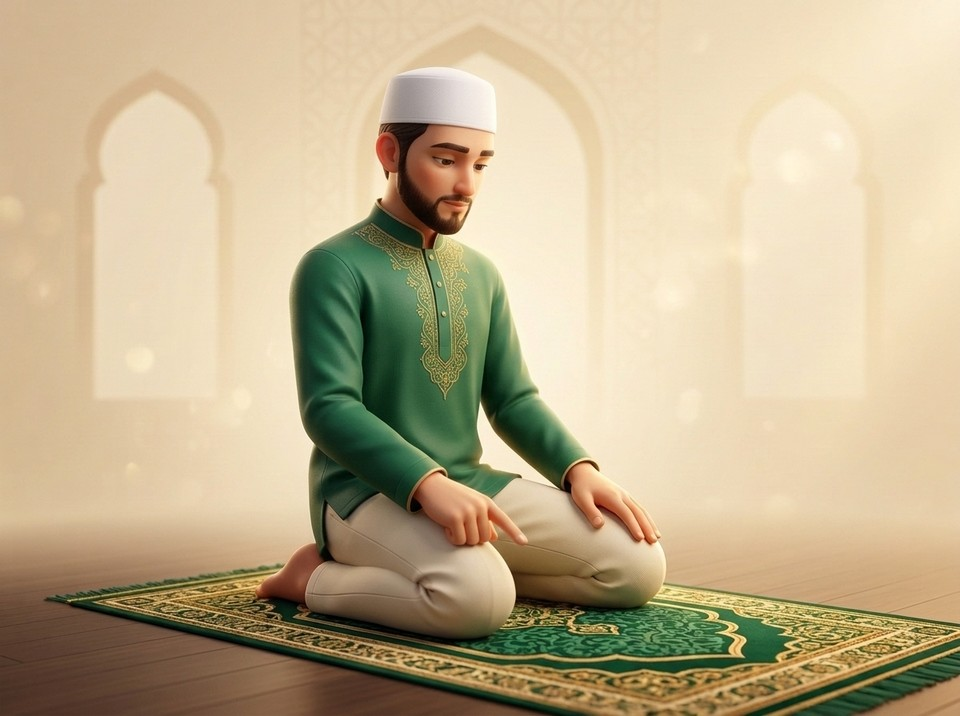
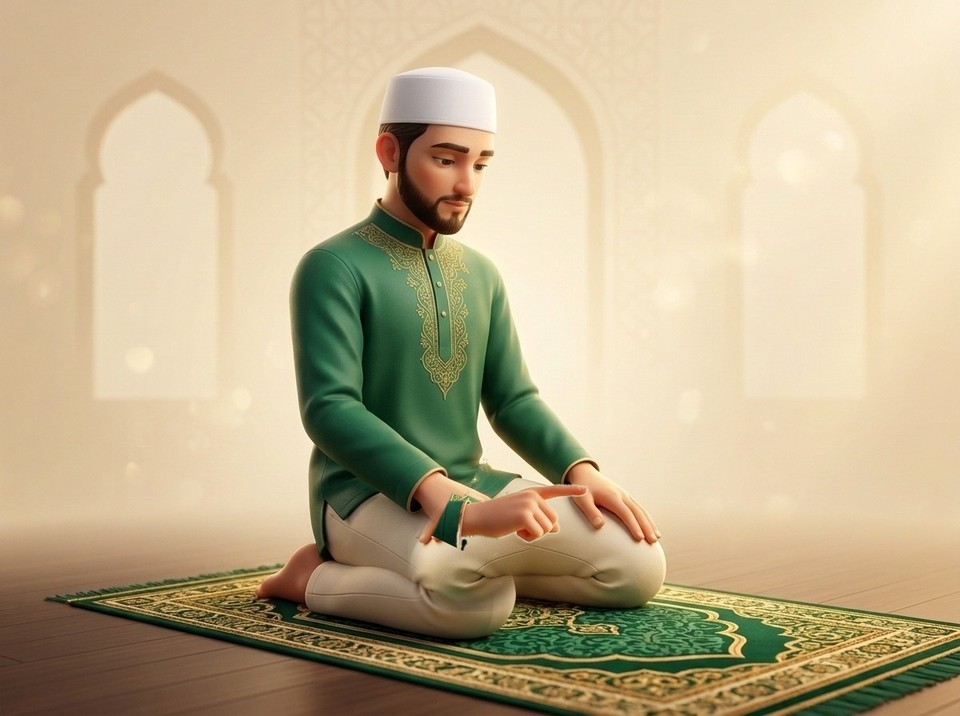
fix(prayer): perbarui posisi telunjuk tasyahud tepat di atas lutut dan tambahkan cache-busting v1.4.1

Changed region(s): [[0.4062, 0.676, 0.625, 0.8603]]

diff --git a/src/features/prayer/components/PrayerPostureIllustration.tsx b/src/features/prayer/components/PrayerPostureIllustration.tsx
@@ -148,8 +148,8 @@ export function PrayerPostureIllustration({
   const [imageLoaded, setImageLoaded] = React.useState(false);
   const meta = POSTURE_METAS[posture] || POSTURE_METAS.qiyam;
 
-  const imageSrcWebp = `/images/prayer/${posture}.webp`;
-  const imageSrcJpg = `/images/prayer/${posture}.jpg`;
+  const imageSrcWebp = `/images/prayer/${posture}.webp?v=1.4.1`;
+  const imageSrcJpg = `/images/prayer/${posture}.jpg?v=1.4.1`;
 
   return (
     <>

diff --git a/public/sw.js b/public/sw.js
@@ -8,7 +8,7 @@
  * - Audio Qori: Range Request handler untuk Safari/iOS dari Cache Storage
  */
 
-const CACHE_NAME = 'iqra-static-v1.3.1';
+const CACHE_NAME = 'iqra-static-v1.4.1';
 const DATA_CACHE_NAME = 'iqra-data-v1.3.0';
 const AUDIO_CACHE_NAME = 'iqra-audio-cache-v1';
 

diff --git a/scripts/process-prayer-images.py b/scripts/process-prayer-images.py
@@ -16,8 +16,8 @@ MAPPINGS = {
     "ruku": os.path.join(BRAIN_DIR, "ruku_prayer_posture_perfect_1792507143016.jpg"),
     "itidal": os.path.join(BRAIN_DIR, "itidal_prayer_posture_1792507044348.jpg"),
     "sujud": os.path.join(BRAIN_DIR, "muslim_man_sujud_1792507191518.jpg"),
-    # Tasyahud: hand and index finger resting on top of the knee (not raised up in the air!)
-    "tasyahud": os.path.join(BRAIN_DIR, "sholat_tasyahud_tauhid_v2_1792507234048.jpg"),
+    # Master Tasyahud: hand and finger resting directly on top of knee, pointing horizontally forward
+    "tasyahud": os.path.join(DEST_DIR, "tasyahud_master.jpg"),
     "salam": os.path.join(BRAIN_DIR, "muslim_man_salam_prayer_v2_1792507234361.jpg"),
 }
 
